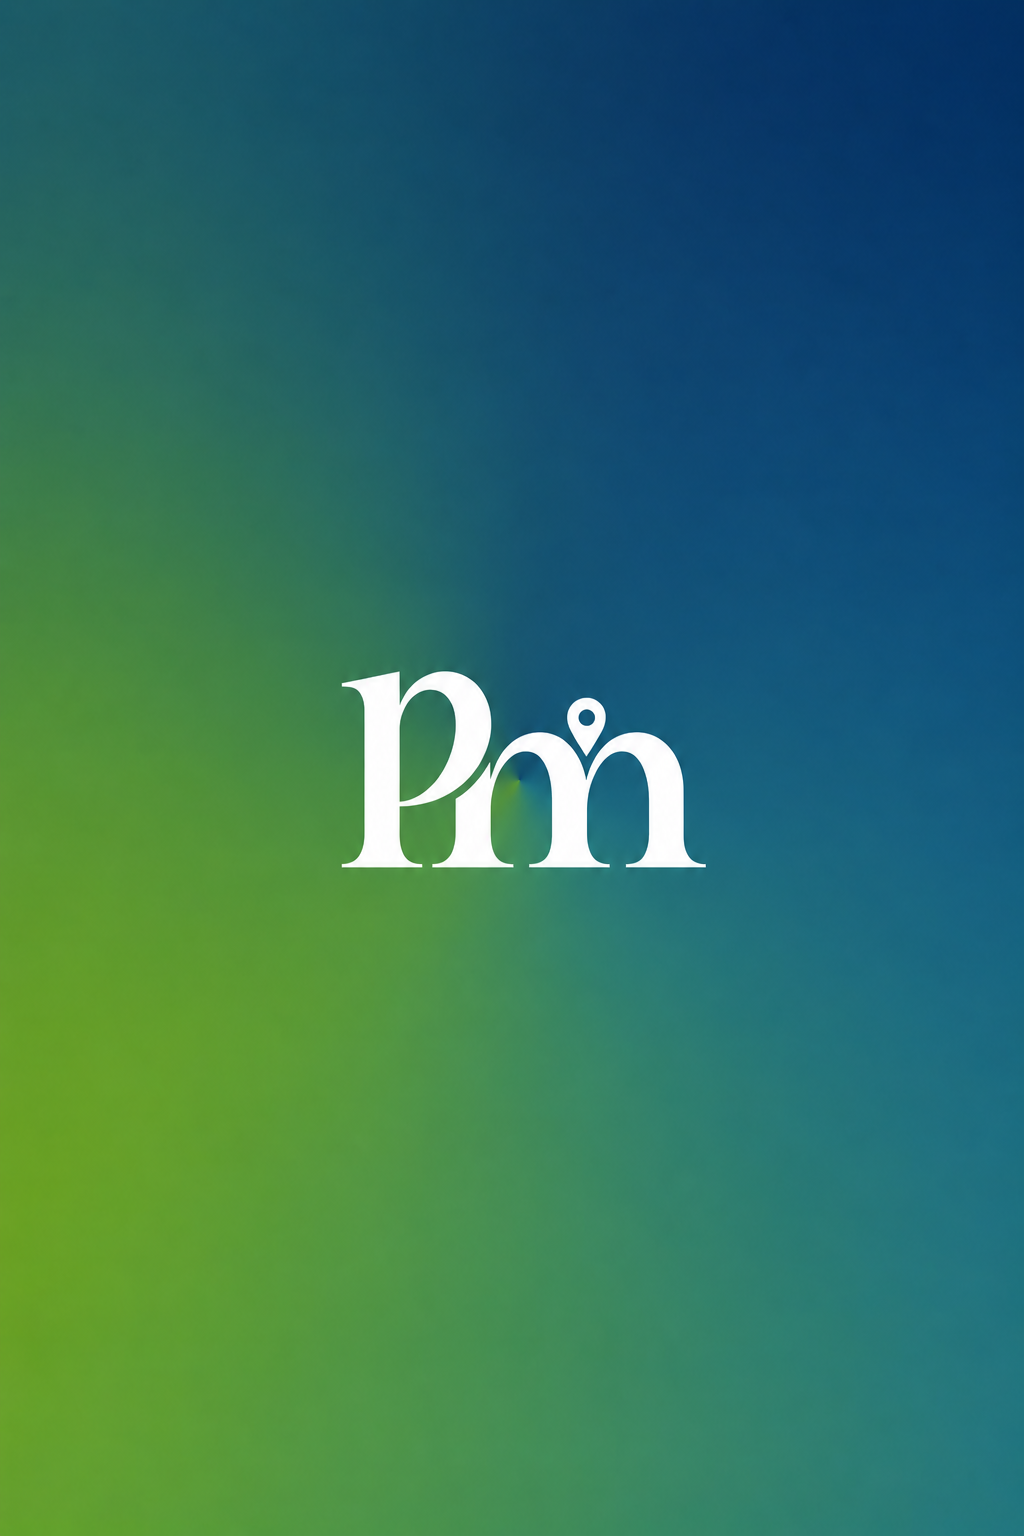
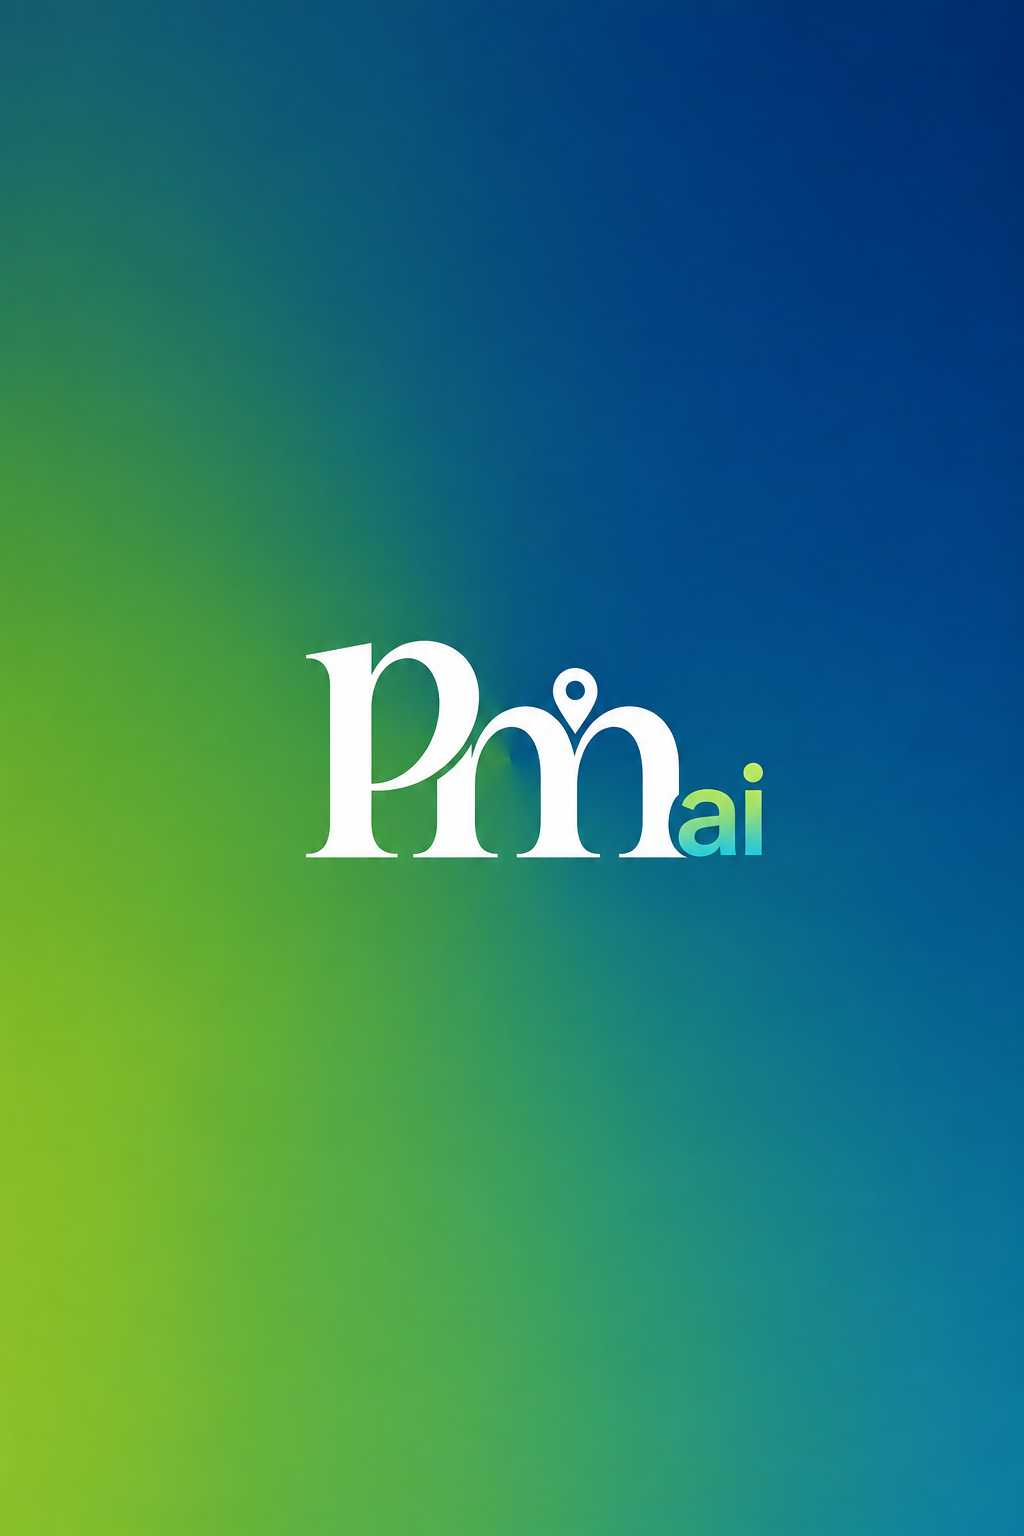
Rebrand Packmates to Packmates AI, link live site, update card image

diff --git a/src/pages/PackmatesProject.jsx b/src/pages/PackmatesProject.jsx
@@ -34,8 +34,11 @@ export default function PackmatesProject() {
         <div className={styles.hero}>
           <div className={styles.heroText}>
             <span className={styles.tag}>Capstone · Team Project · Travel App</span>
-            <h1>Packmates</h1>
+            <h1>Packmates AI</h1>
             <p className={styles.heroSub}>A collaborative travel packing app with weather-based adaptive lists, trip management, and a smart physical tag — built as a capstone project.</p>
+            <a href="https://packmatesai.com" target="_blank" rel="noopener noreferrer" className={styles.liveLink}>
+              View Live Site →
+            </a>
           </div>
           <div className={styles.logoCircle} style={{ background: '#ffffff' }}>
             <img src="/img/logo.pack.png" alt="Packmates Logo" className={styles.logo} style={{ objectFit: 'contain', padding: '8px' }} />
@@ -53,7 +56,7 @@ export default function PackmatesProject() {
         {/* Teamwork */}
         <section className={styles.section}>
           <h2 className={styles.sectionTitle}>🤝 Team Collaboration</h2>
-          <p className={styles.sectionIntro}>Packmates was built as a full team effort. Each member owned specific pages and features, working in parallel to deliver a cohesive product that matched our HiFi prototype.</p>
+          <p className={styles.sectionIntro}>Packmates AI was built as a full team effort. Each member owned specific pages and features, working in parallel to deliver a cohesive product that matched our HiFi prototype.</p>
           <div className={styles.researchCards}>
             <div className={styles.researchCard} style={{borderTop: '4px solid #000'}}>
               <span className={styles.researchEmoji}>📋</span>
@@ -149,7 +152,7 @@ export default function PackmatesProject() {
         {/* Site Map */}
         <section className={styles.section}>
           <h2 className={styles.sectionTitle}>🗺 Final Site Map</h2>
-          <p className={styles.sectionIntro}>The final site map outlines the full structure of Packmates — from registration and login through the home dashboard, smart packing list, trip creation, and all supporting screens.</p>
+          <p className={styles.sectionIntro}>The final site map outlines the full structure of Packmates AI — from registration and login through the home dashboard, smart packing list, trip creation, and all supporting screens.</p>
           <div style={{ borderRadius: '12px', overflow: 'hidden', border: '1px solid #e0e0e0', boxShadow: '0 2px 12px rgba(0,0,0,0.06)' }}>
             <img src="/img/packmates-sitemap.png" alt="Packmates Final Site Map" style={{ width: '100%', display: 'block' }} />
           </div>

diff --git a/src/pages/Projects.jsx b/src/pages/Projects.jsx
@@ -25,7 +25,7 @@ const allProjects = [
   },
   {
     id: 3,
-    title: "Packmates",
+    title: "Packmates AI",
     category: "Development",
     description: "A collaborative travel packing app built as a UCF capstone project. Ships with adaptive packing lists powered by live weather data, multi-user trip management, and a QR-coded luggage tag — delivered as a fully functional prototype.",
     tech: "HTML, CSS, JavaScript, PHP, Docker",
